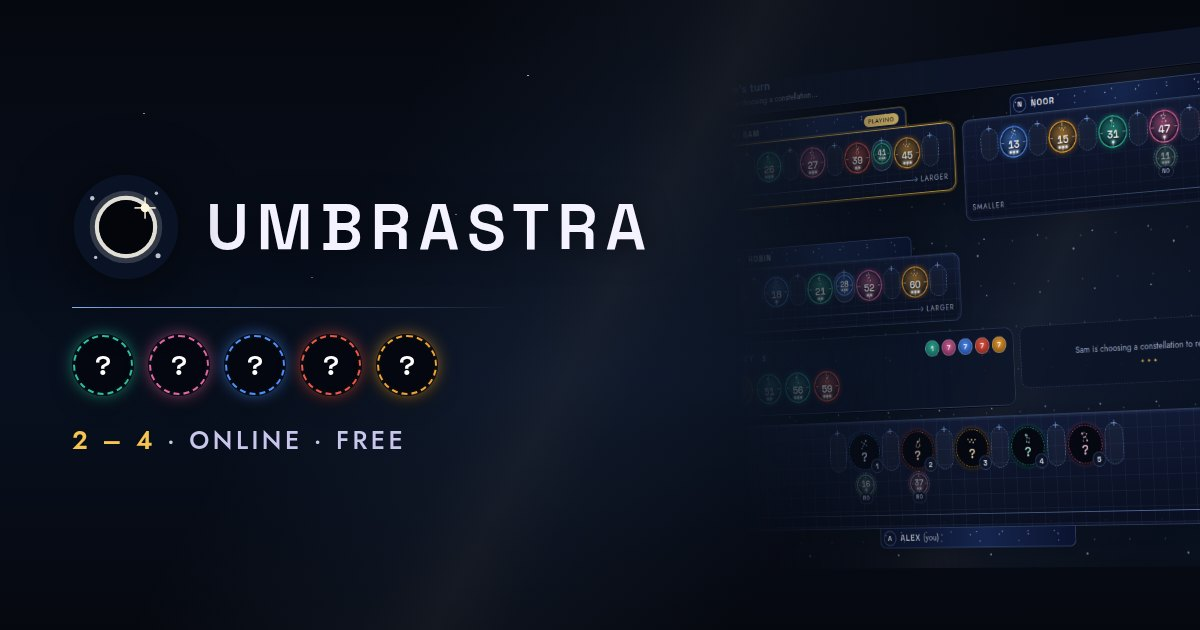
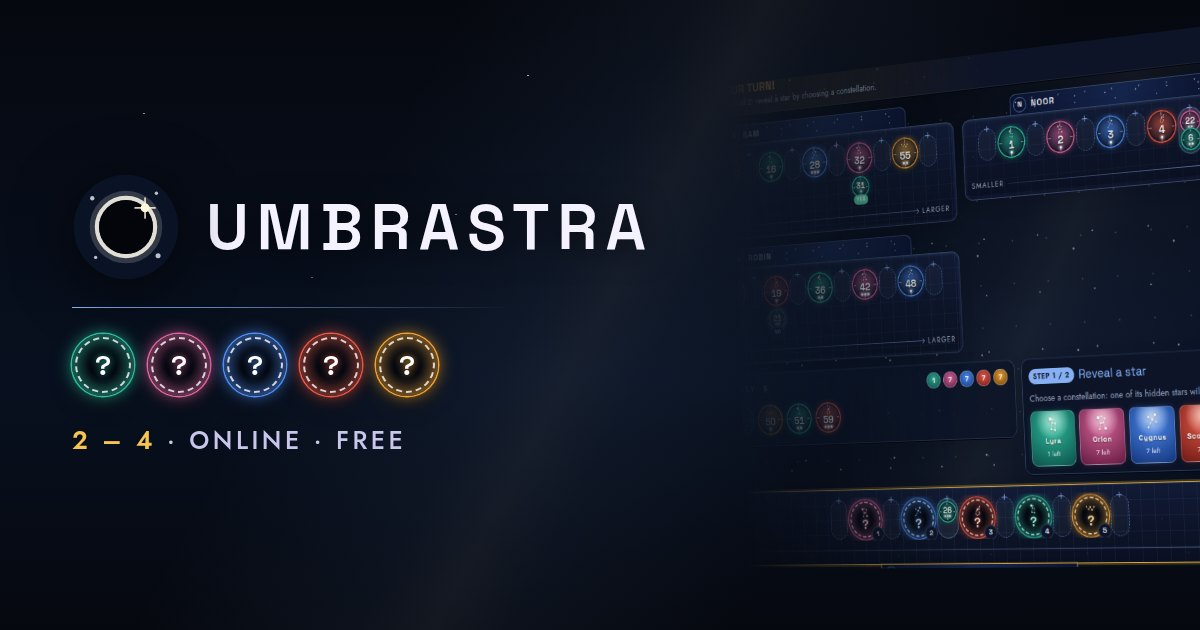
Make hidden stars' colours stand out
My own hidden stars were almost black with a thin dashed ring: their
constellation was hard to tell at a glance. They now keep a dark core
inside a field of the constellation's colour, with a solid coloured edge,
a bright dashed ring, a coloured halo and a glowing question mark, and
their star figure at full strength. They remain clearly different from
revealed stars (no number, dark core, dashed ring).

README screenshot, link preview image and identity doc updated.
Checked: 212 unit tests, 74 end-to-end tests (desktop + mobile).

Claude-Session: https://claude.ai/code/session_01RzjeB38PUqgC4hgK768w1r

diff --git a/client/src/styles/game.css b/client/src/styles/game.css
@@ -163,32 +163,36 @@
 }
 
 /* --- My hidden stars: not observed yet ---------------------------------------
-   A dark field with a dashed ring in the constellation's colour: the target
-   is known, its light is not. */
+   The target is known, its light is not: a dark core, but the constellation's
+   colour clearly visible all around — a coloured field, a bright dashed ring
+   and a halo — so that each hidden star is recognised at a glance. */
 
 .tile-back {
   color: var(--tile-light, #fff);
-  background: var(--eclipse-face);
+  background: var(--tile-edge, #173b86);
   background: radial-gradient(
     circle at 50% 50%,
-    var(--eclipse-face) 0 58%,
-    color-mix(in srgb, var(--tile-face, #4f8ff7) 20%, var(--eclipse-face)) 100%
+    var(--eclipse-face) 0 30%,
+    color-mix(in srgb, var(--tile-face, #4f8ff7) 38%, var(--eclipse-face)) 62%,
+    color-mix(in srgb, var(--tile-face, #4f8ff7) 70%, var(--eclipse-face)) 100%
   );
   box-shadow:
-    0 0 12px -5px var(--tile-face, transparent),
+    0 0 0 1.5px var(--tile-face, #4f8ff7),
+    0 0 16px -2px var(--tile-face, transparent),
     var(--sh-tile);
 }
 
 .tile-back::before {
-  inset: 2px;
+  inset: 3px;
   background: none;
-  border: 1.5px dashed var(--tile-face, #fff);
-  opacity: 0.9;
+  border: 2px dashed var(--tile-light, #fff);
+  opacity: 0.85;
 }
 
 .tile-back .tile__asterism {
   color: var(--tile-light, #fff);
-  opacity: 0.9;
+  opacity: 1;
+  filter: drop-shadow(0 0 3px var(--tile-face, transparent));
 }
 
 .tile-back__mark {
@@ -198,7 +202,7 @@
   font-weight: 600;
   line-height: 1;
   color: var(--tile-light, #fff);
-  opacity: 0.9;
+  text-shadow: 0 0 8px var(--tile-face, transparent);
 }
 
 .tile-back__position {

diff --git a/docs/PROJECT_IDENTITY.md b/docs/PROJECT_IDENTITY.md
@@ -148,9 +148,10 @@ Each star is **a star seen through the eyepiece**:
   coloured field ring with four reticle marks, the constellation's figure at
   the top, the number in Space Grotesk, and one to three round **sparks**
   underneath, as in a star chart's brightness legend;
-- my own, hidden — **not observed yet**: a dark field, a dashed ring in the
-  constellation's colour, its figure, a question mark, and the position in a
-  small badge;
+- my own, hidden — **not observed yet**: a dark core inside a field of the
+  constellation's colour, a bright dashed ring and a coloured halo (so each
+  one is recognised at a glance), its figure, a question mark, and the
+  position in a small badge;
 - gauged with a NO — dimmed, inside a dashed halo.
 
 The constellation figures carry the identity even without colour, which
